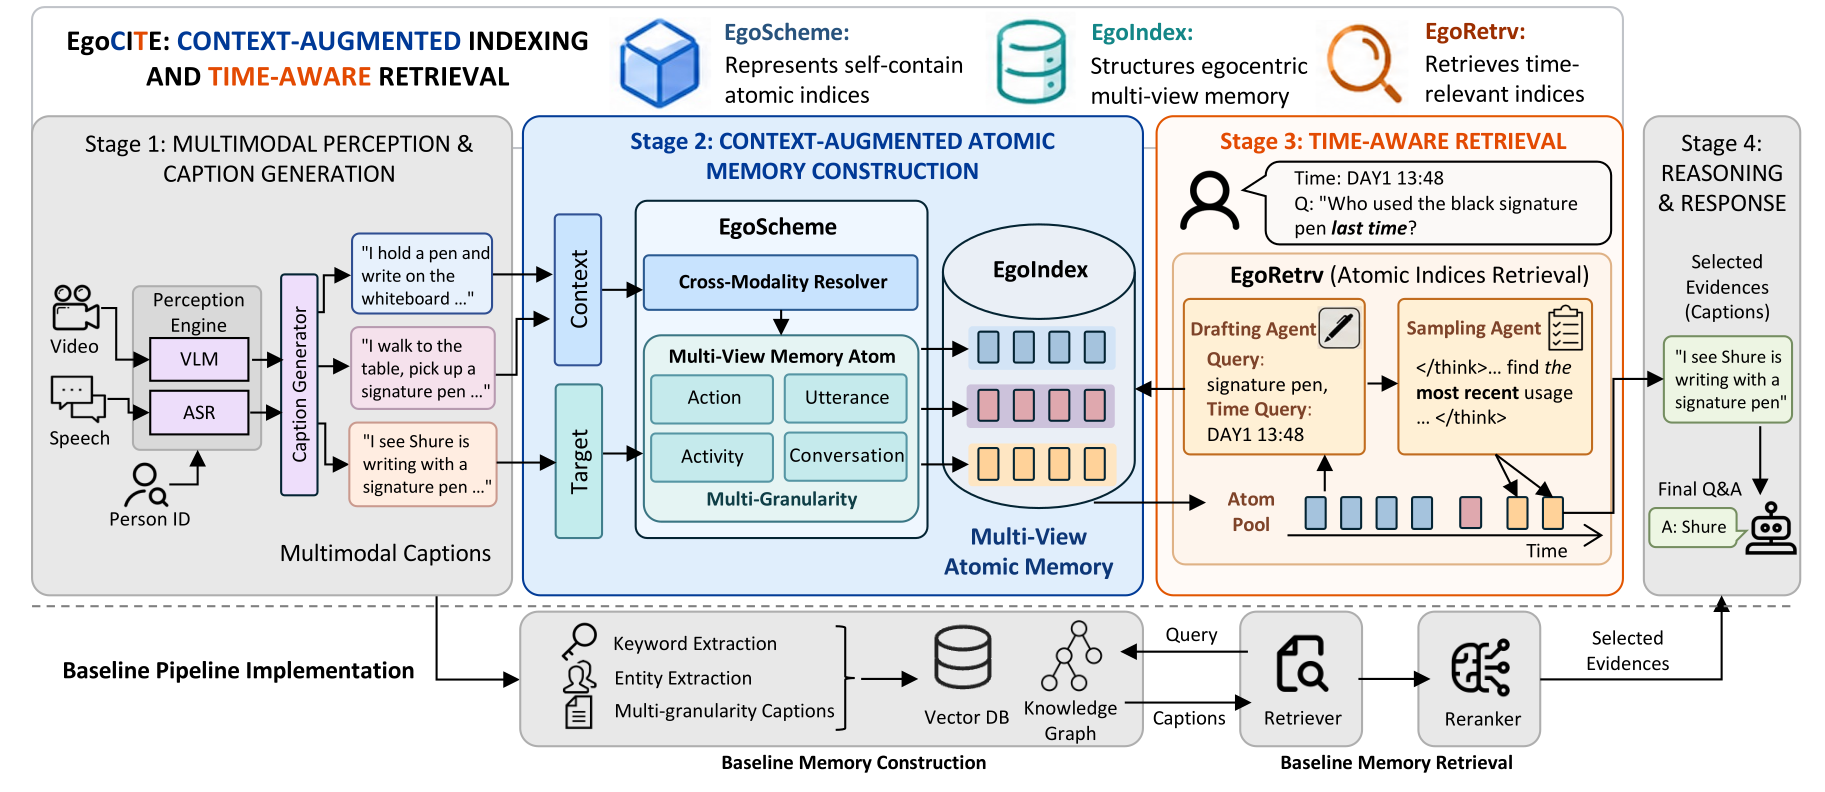
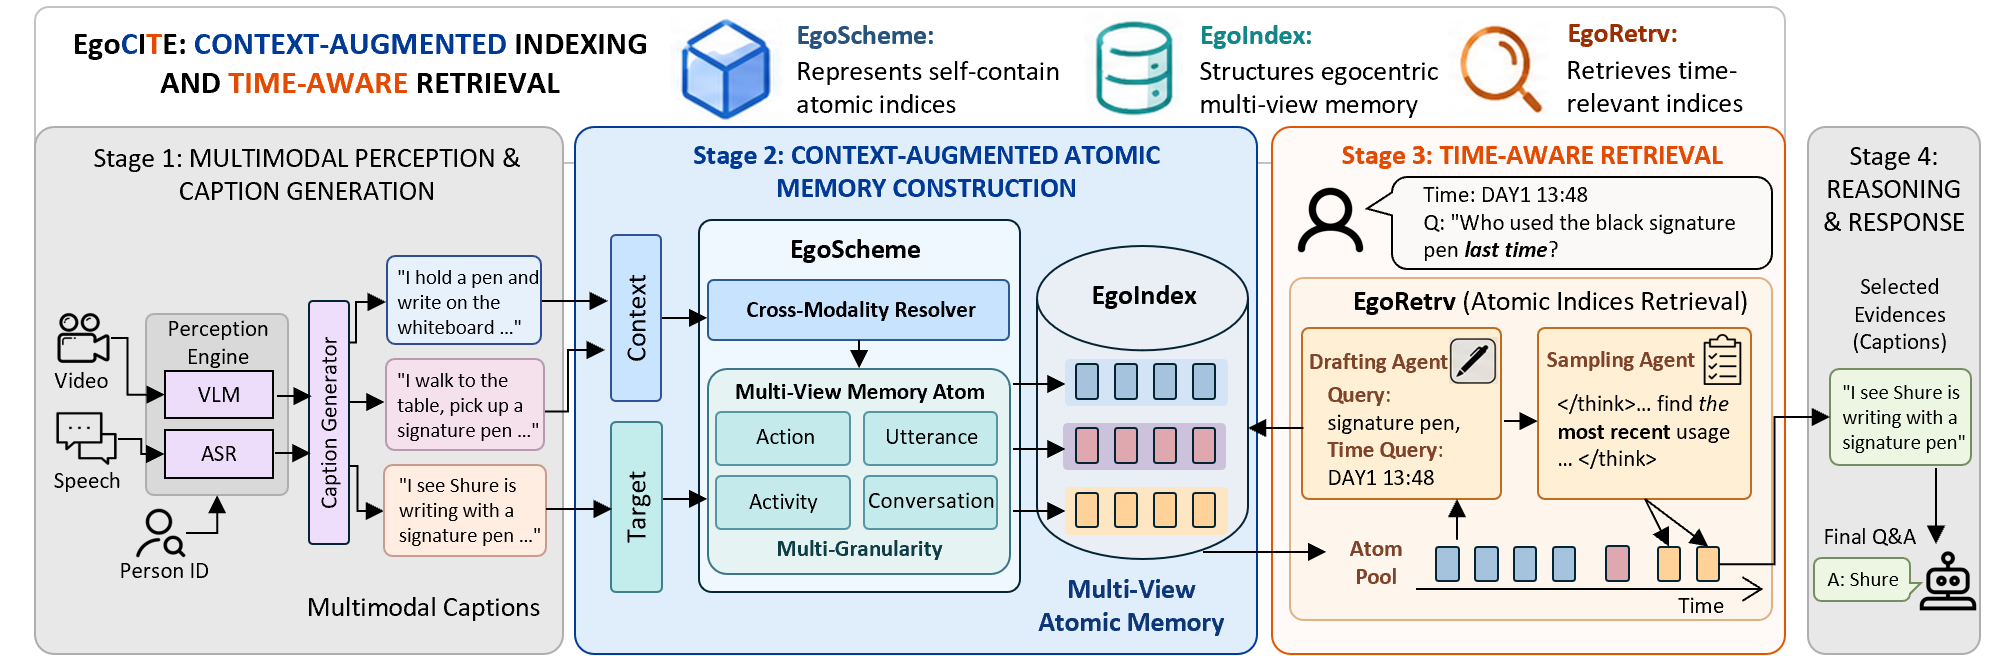
Update overview figure

diff --git a/index.html b/index.html
@@ -9,7 +9,7 @@
   <meta property="og:type" content="website">
   <meta property="og:title" content="EgoCITE: Context-Augmented Indexing and Time-Aware Retrieval for Long-Horizon Egocentric Memory">
   <meta property="og:description" content="EgoCITE is a long-horizon agentic memory framework for egocentric QA that couples context-augmented indexing with time-aware retrieval.">
-  <meta property="og:image" content="static/images/overview.png?v=2">
+  <meta property="og:image" content="static/images/overview.png?v=3">
   <meta name="twitter:card" content="summary_large_image">
   <meta name="theme-color" content="#1452a3">
   <link rel="preconnect" href="https://fonts.googleapis.com">
@@ -71,8 +71,8 @@
     <section class="teaser">
       <div class="container wide">
         <figure class="teaser-figure">
-          <a class="teaser-frame" href="static/images/overview.png?v=2" target="_blank" rel="noreferrer">
-            <img src="static/images/overview.png?v=2" alt="Overview of EgoCITE, from multimodal perception through context-augmented memory construction and time-aware retrieval to response." width="1825" height="792">
+          <a class="teaser-frame" href="static/images/overview.png?v=3" target="_blank" rel="noreferrer">
+            <img src="static/images/overview.png?v=3" alt="Overview of EgoCITE, from multimodal perception through context-augmented memory construction and time-aware retrieval to response." width="2007" height="656">
           </a>
           <span class="mobile-figure-note">Swipe to inspect the pipeline · Tap for full resolution</span>
           <figcaption><b>Figure 1.</b> Overview of the pipeline: (1) Multimodal perception &amp; caption generation, (2) Context-augmented atomic memory construction, (3) Time-aware atomic memory index retrieval, and (4) Reasoning &amp; response. Click the figure for full resolution.</figcaption>
